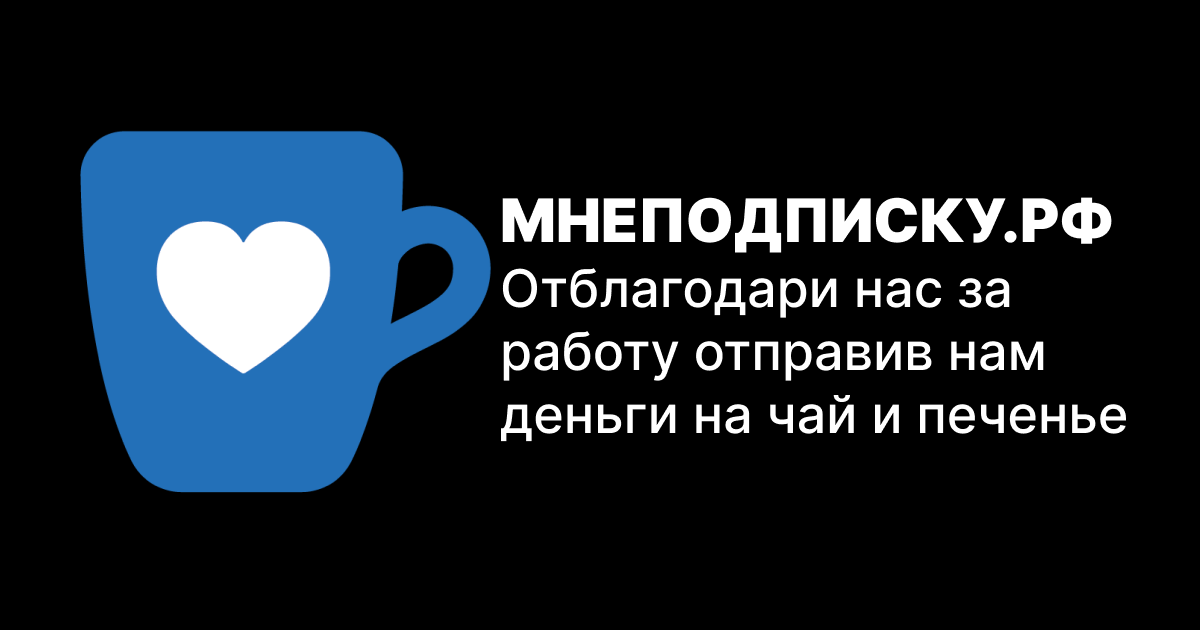
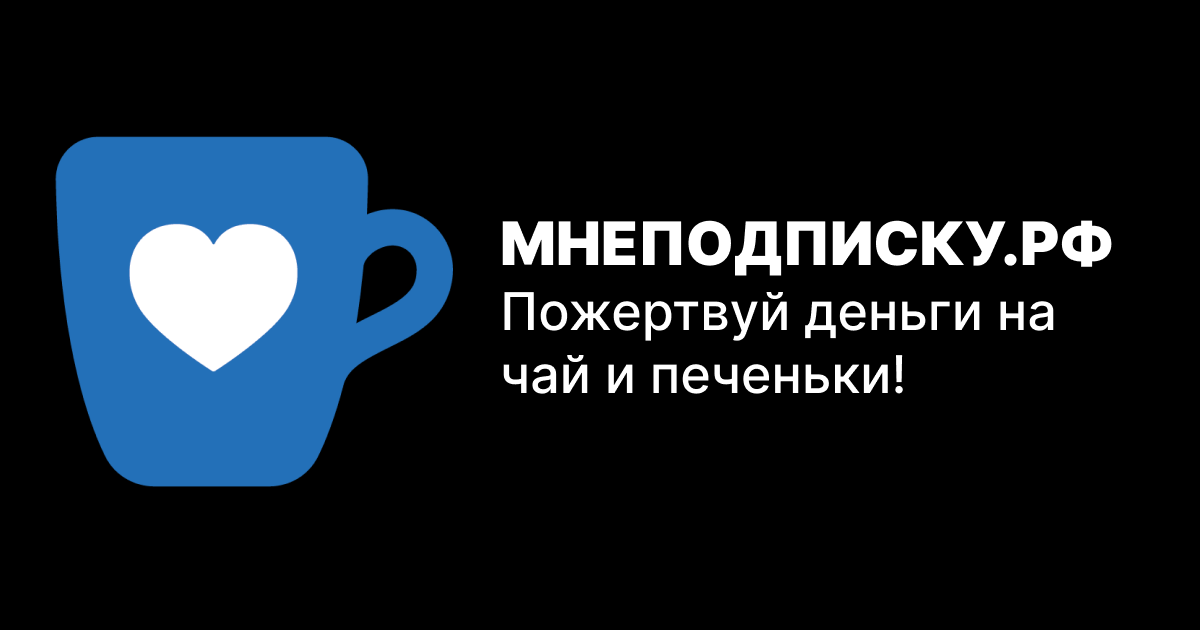
refactor: new og image and description

Changed region(s): [[0.0308, 0.181, 0.9558, 0.7841]]

diff --git a/src/app/na_chai/page.tsx b/src/app/na_chai/page.tsx
@@ -8,10 +8,10 @@ import { headers } from "next/headers";
 
 export const metadata: Metadata = {
   title: "На чай и печеньки",
-  description: "Страница приема пожертвований",
+  description: "Страница приема безвозмездных пожертвований, помоги нам приобрести чай и печеньки и сделать наш сервис еще лучше :3",
   openGraph: {
     title: "На чай и печеньки",
-    description: "Страница приема пожертвований",
+    description: "Страница приема безвозмездных пожертвований, помоги нам приобрести чай и печеньки и сделать наш сервис еще лучше :3",
     url: "/na_chai",
     images: ["/og_images_catalogue/na_chai.png"],
     type: "website",
